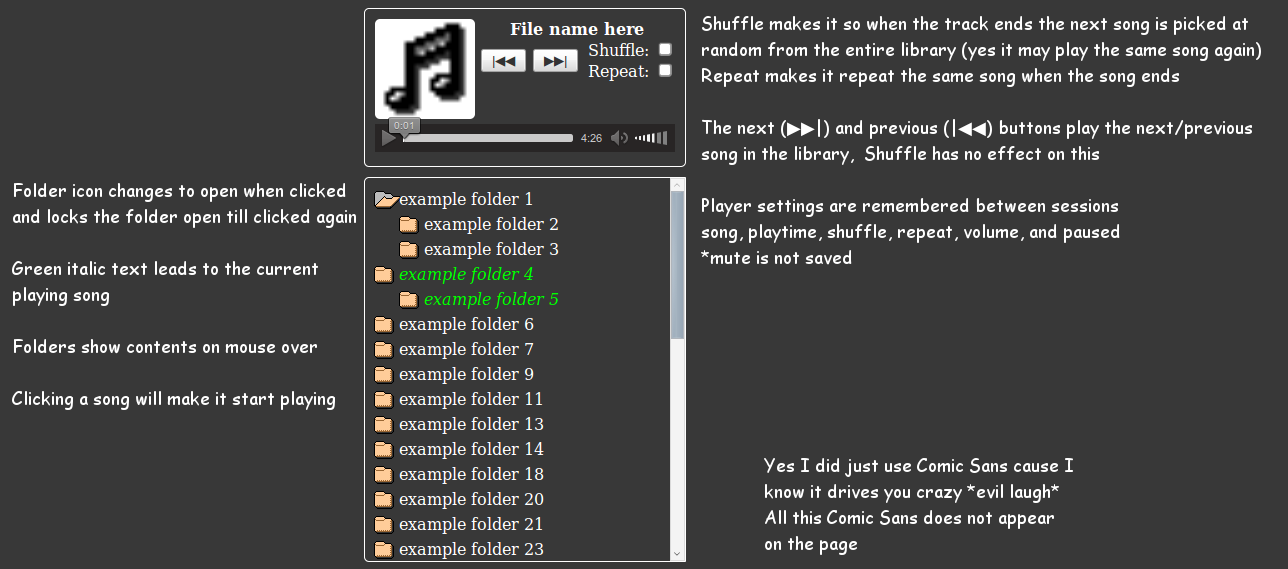
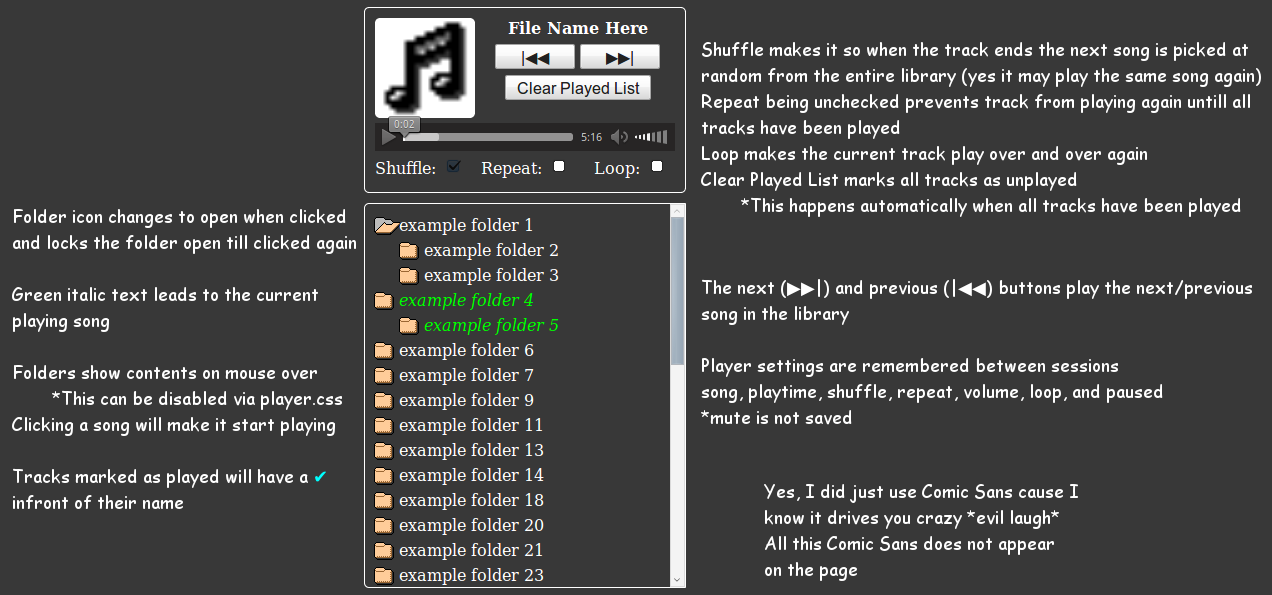
Bug fixes

diff --git a/player.js b/player.js
@@ -1,8 +1,21 @@
 "use strict";
-var music=Array(),
-	cLog=false,// show messages in brower console
-	hst={"log":[],"indx":0},
-	track,audio,pic,title,TITLE,shuffle,repeat,loop,err,playlist,offset,unPlayed;
+var track,audio,pic,title,TITLE,shuffle,repeat,loop,err,playlist,offset,unPlayed,
+	cLog=false,// Show messages in brower console
+	music=Array(),
+	hst={
+		"log":[],
+		"indx":0,
+		"nav":false,
+		"add":function(){
+			var trim=hst.log.length;
+			log('Add track '+track+' to history');
+			hst.log.push(track);
+			hst.log=hst.log.slice(music.length*-1);
+			if(hst.indx>hst.log.length)
+				hst.indx=hst.log.length;
+			return trim==hst.log.length;
+		}
+	};
 function getId(id){
 	return document.getElementById(id);
 }
@@ -57,6 +70,35 @@ function reloadUnPlayed(init){
 	}
 	repeat.parentNode.title="Played: 0/"+music.length;
 }
+function setPlayed(i,test){
+	if(test===false){
+		log('#'+i+' has been played');
+		music[i].setAttribute('played','yes');
+		return;
+	}
+	i=unPlayed.indexOf(i);
+	if(unPlayed.length>0){
+		log('Tracks not played: '+unPlayed.length);
+		if(audio.currentTime/audio.duration >= 0.15){// At least 15% of file was played
+			setPlayed(track,false);
+			if(i>-1){
+				unPlayed.splice(i,1);
+				repeat.parentNode.title="Played: "+(music.length-unPlayed.length)+"/"+music.length;
+			}
+			else{
+				log('Said track was played already');
+			}
+		}
+		else{
+			log('Tack #'+i+' was Skipped');
+			i++;
+		}
+	}
+	else{
+		reloadUnPlayed(false);
+	}
+	return i==unPlayed.length?0:i;
+}
 function populateList(arr,e,dir){
 	var li,i,x,cover;
 	for(i in arr){
@@ -98,6 +140,12 @@ function populateList(arr,e,dir){
 				li.setAttribute('cover',cover?dir+cover:'/icons/sound2.png');
 				li.addEventListener('click',function(event){
 					event.stopPropagation();
+					if(hst.nav){// manual navigation
+						hst.add();
+						hst.indx=hst.log.length;
+						setPlayed(track,true);
+					}
+					hst.nav=true;
 					var file=this.getAttribute('file'),
 						cover=this.getAttribute('cover'),
 						s=document.createElement('source'),
@@ -180,45 +228,23 @@ function init(){
 		reloadUnPlayed(true);
 	}
 	if(unPlayed.length!=music.length){
-		var i,id;
-		for(i in music){
-			id=parseInt(music[i].id);
-			if(unPlayed.indexOf(id)==-1){
-				log('#'+id+' has been played');
-				music[i].setAttribute('played','yes');
+		for(var i in music){
+			i=parseInt(music[i].id);
+			if(unPlayed.indexOf(i)==-1){
+				setPlayed(i,false);
 			}
 		}
 	}
 	audio.addEventListener("ended",function(){
 		log('End Track: #'+track);
 		var next=track,
-			indx=unPlayed.indexOf(next);
-		if(unPlayed.length>0){
-			log('Tracks not played: '+unPlayed.length);
-			if(audio.currentTime/audio.duration >= 0.15){ // At least 15% of file was played
-				log('Tack #'+track+' was Played');
-				music[track].setAttribute('played','yes');
-				if(indx>-1){
-					unPlayed.splice(indx,1);
-					repeat.parentNode.title="Played: "+(music.length-unPlayed.length)+"/"+music.length;
-				}
-				else{
-					log('Said track was played already');
-				}
-			}
-			else{
-				log('Tack #'+track+' was Skipped');
-				indx++;
-			}
-		}
-		else{
-			reloadUnPlayed(false);
-		}
+			indx=setPlayed(track,true);
 		if(loop.checked){
 			log('Track Loop');
 			audio.currentTime=0;
 			return audio.play();
 		}
+		hst.nav=false;
 		hst.indx++;
 		if(hst.log.length>hst.indx){
 			log('Back feature was used: '+hst.indx+'/'+hst.log.length);
@@ -226,10 +252,7 @@ function init(){
 			return true;
 		}
 		else if(hst.indx>hst.log.length){
-			hst.log.push(track);
-			hst.log=hst.log.slice(music.length*-1);
-			if(hst.indx>hst.log.length)
-				hst.indx=hst.log.length;
+			hst.add();
 		}
 		if(shuffle.checked){
 			log('Shuffle Tracks');
@@ -270,15 +293,22 @@ function init(){
 			return alert('Out of History');
 		}
 		if(hst.indx==hst.log.length){
-			hst.log.push(track);
-			if(hst.log.length>music.length)
+			if(hst.add()){
 				hst.indx--;
-			log('Add this track to history');
-			hst.log=hst.log.slice(music.length*-1);
+			}
 		}
 		hst.indx--;
 		log('History: '+hst.indx+' - '+JSON.stringify(hst.log));
+		hst.nav=false;
 		sendEvt(music[hst.log[hst.indx]],'click');
+	},false);
+	getId('wipe').addEventListener("click",function(){
+		if(music.length==unPlayed.length){
+			return alert('No tracks have been played!');
+		}
+		if(confirm("All tracks will be marked as unplayed.\n\nTracks marked as played: "+(music.length-unPlayed.length)+" of "+music.length)){
+			reloadUnPlayed(false);
+		}
 	},false);
 	shuffle.checked=config["shuffle"];
 	loop.checked=config["loop"];
@@ -343,6 +373,21 @@ function init(){
 		if(event.which==32)
 			event.stopPropagation();
 	},false);
+	hst.debug=getId('debugHst');// Potential use as play history viewer
+	if(hst.debug){
+		hst.style.width='320px';
+		hst.debugHst=function(e){
+			e.textContent='hst.indx = '+hst.indx;
+			for(var i in hst.log){
+				e.appendChild(document.createElement('br'));
+				e.appendChild(document.createTextNode(i+' : '+music[hst.log[i]].textContent));
+			}
+			setTimeout(function(){hst.debugHst(e);},100);
+		}
+		cLog=true;
+		hst.debugHst(hst.debug);
+		playlist.setAttribute('style','max-height:60px;min-height:30px;');// Let me see what I'm doing
+	}
 }
 window.onresize=function(){
 	playlist.style.maxHeight=window.innerHeight-offset+'px';

diff --git a/index.html b/index.html
@@ -2,7 +2,8 @@
 <html>
 	<head>
 		<meta charset="UTF-8"/>
-		<meta name="viewport" content="width=device-width, initial-scale=1.0">
+		<meta http-equiv="X-UA-Compatible" content="IE=Edge"/>
+		<meta name="viewport" content="width=device-width, initial-scale=1.0"/>
 		<title id="pageTitle">Music Player</title>
 		<link href="/icons/sound2.png" type="image/png" rel="shortcut icon">
 		<link href="player.css" type="text/css" rel="stylesheet"/>
@@ -15,6 +16,7 @@
 				<h4 id="title"></h4>
 				<input id="back" type="button" value="|&#x25c0;&#x25c0;"/>
 				<input id="next" type="button" value="&#9654;&#9654;|"/>
+				<input id="wipe" type="button" value="Clear Played List">
 				<p id="error"></p>
 			</div>
 			<img id="cover"/><br/>
@@ -26,5 +28,6 @@
 			</div>
 		</div><br/>
 		<div id="playlist"></div>
+		<!--<br/><div id="debugHst"></div>-->
 	</body>
 </html>

diff --git a/player.css b/player.css
@@ -56,13 +56,15 @@ body > div{
 #player input:not([disabled]){
 	cursor:pointer;
 }
+#player input[type="button"]{
+	font-family:Arial;
+	height:25px;
+	font-size:16px;
+}
 #player #back,
 #player #next{
-	margin:9px 5px 0 0;
-	font-family:Arial;
-	height:35px;
+	margin:6px 0 6px;
 	width:80px;
-	font-size:large;
 }
 #player #error{
 	margin:0;

diff --git a/README.md b/README.md
@@ -25,10 +25,7 @@ Shuffle: Play tracks at random instead of in order.<br/>
 Repeat: Allow tracks to repeat (When un-checked every track much be played once before it can be played again; saved between sessions; Played tracks are marked as &#x2714; in the playlist)<br/>
 Next/Back: This feature now uses a play history log, this is not saved between sessions (max length is the size of your playlist)<br/>
 Note: Changing the number of tracks in the playlist will reset session data<br/>
-Note: Pressing next will not mark a track as played unless it is at least 15% complete<br/>
-
-Known Bugs:<br/>
-When navagating away from tracks via the playlist will bypass history and will not mark the previous track as played (Maybe I will fix this one day, knowing it exist will bug me)
+Note: Tracks will not mark a track as played unless it is at least 15% complete<br/>
 
 Keyboard shortcuts:<br/>
 <pre>
